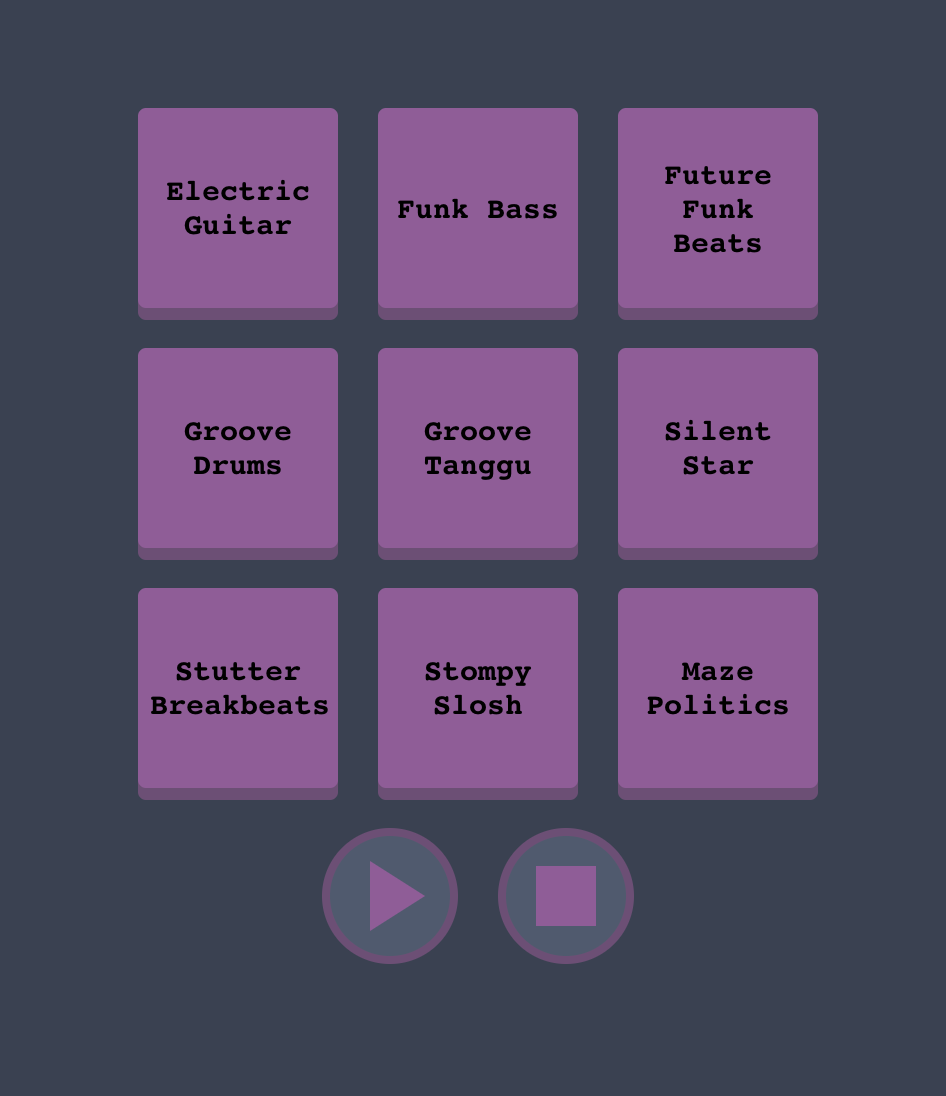
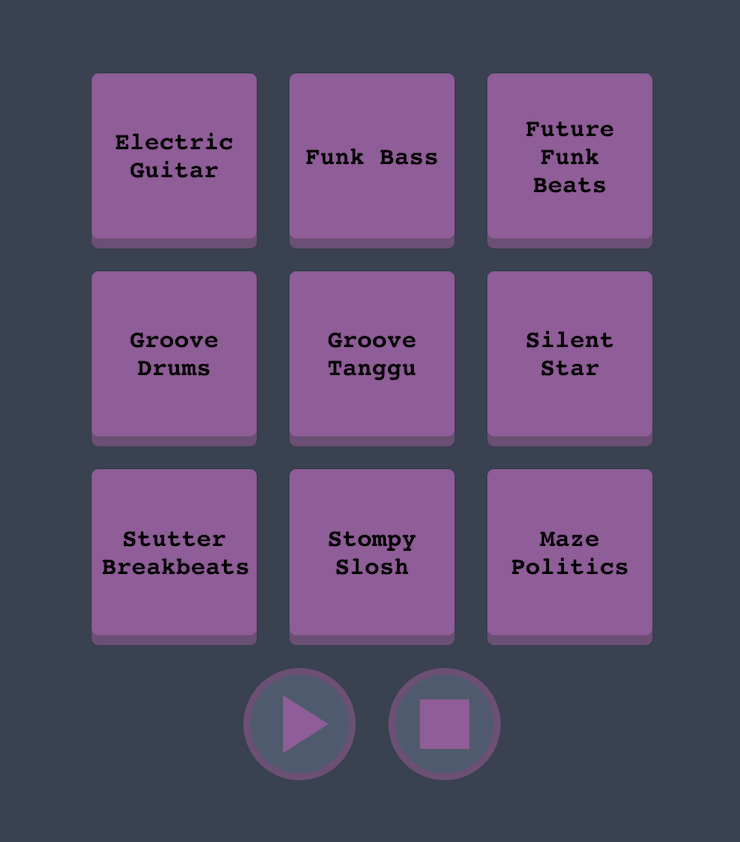
image

diff --git a/README.md b/README.md
@@ -3,5 +3,5 @@
 https://looper--app.web.app/
 
 
-![looper app](/public/image.png){:height="700px" width="400px"}
+![looper app](/public/image.png)
 
